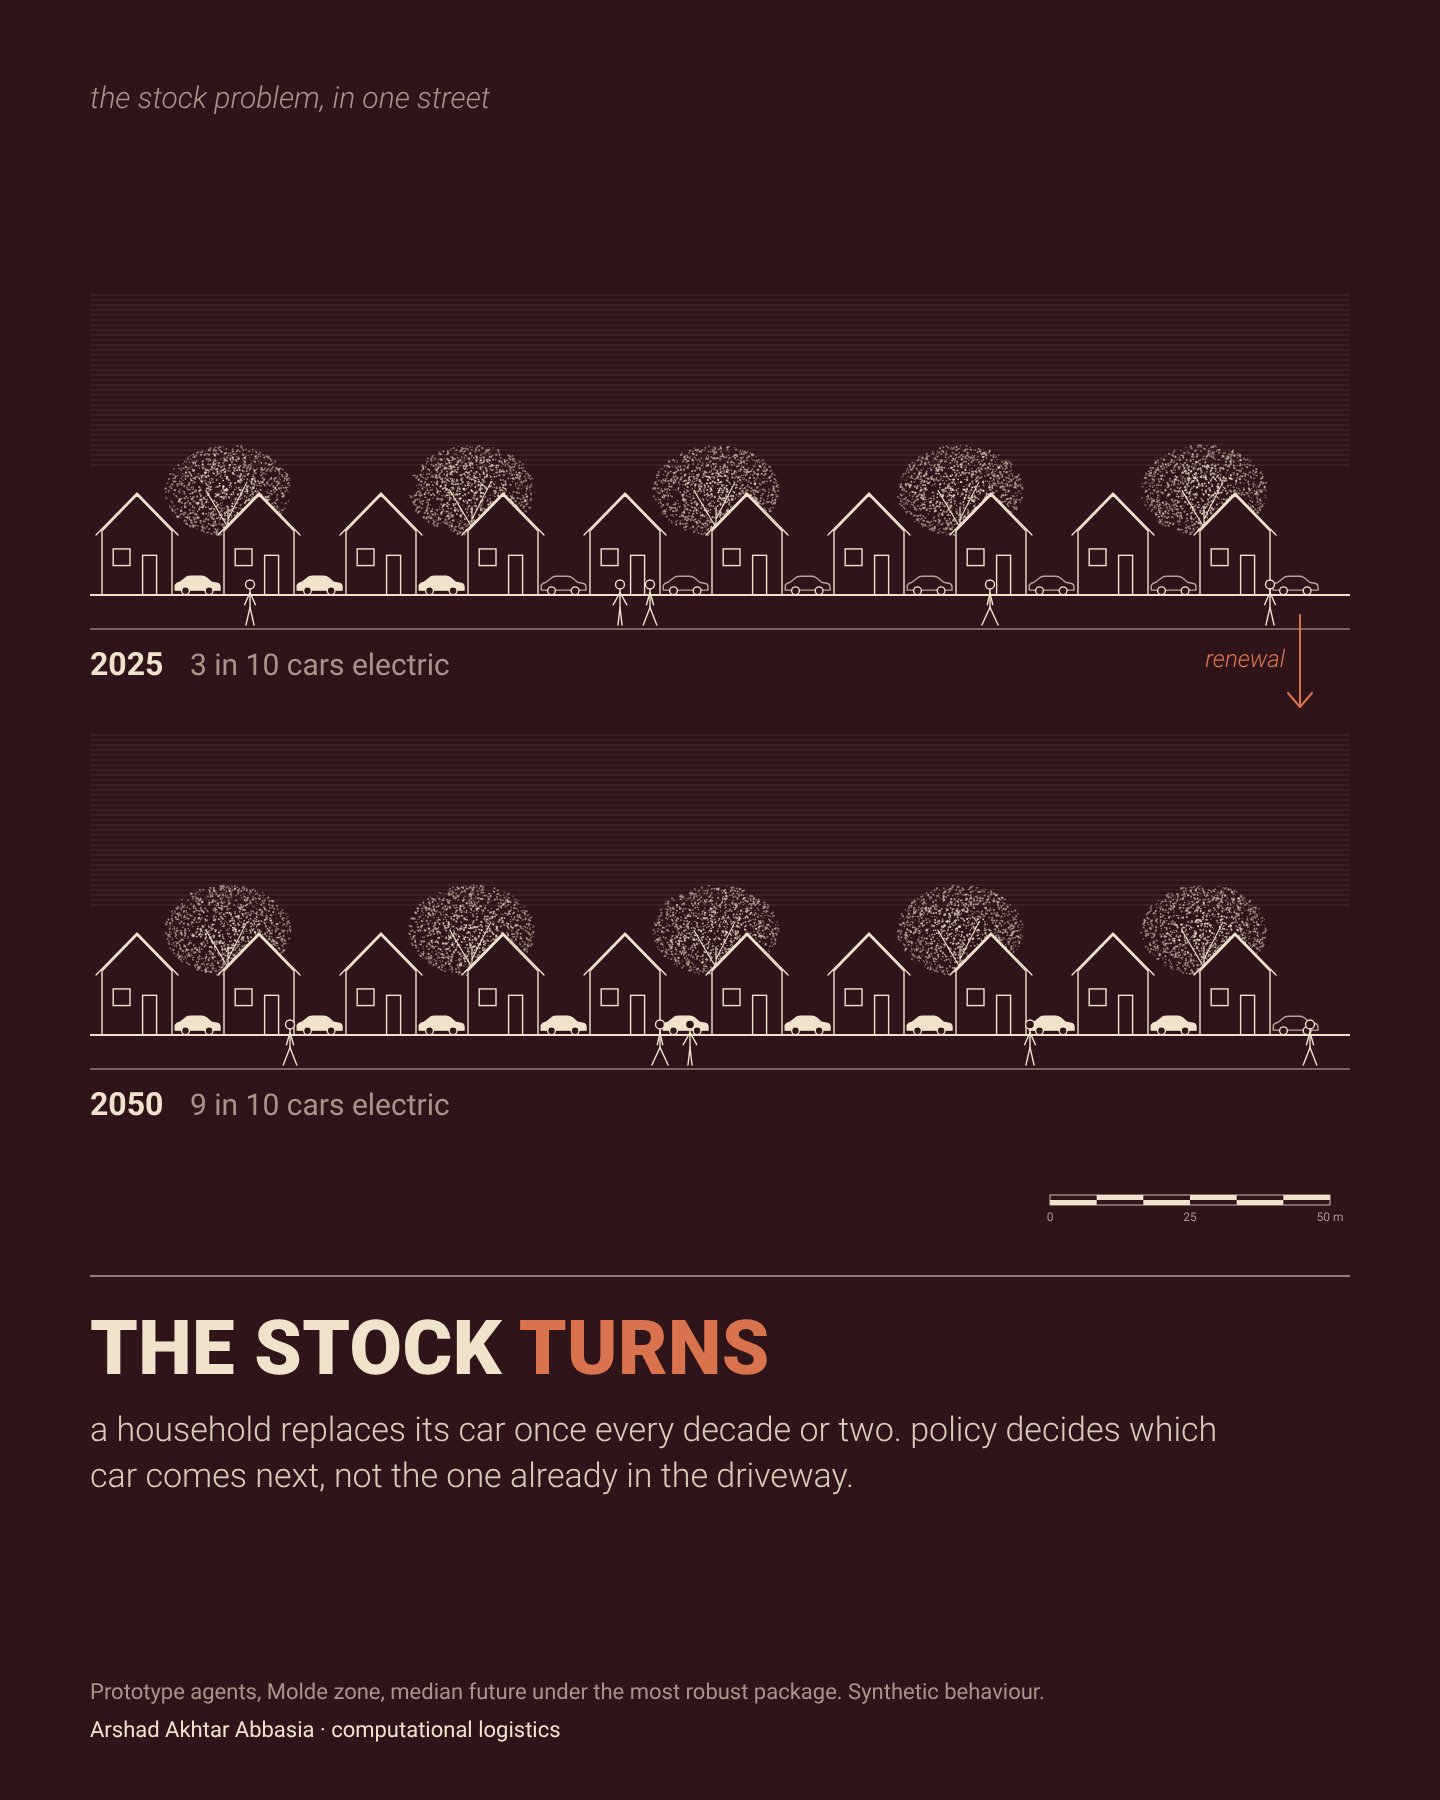
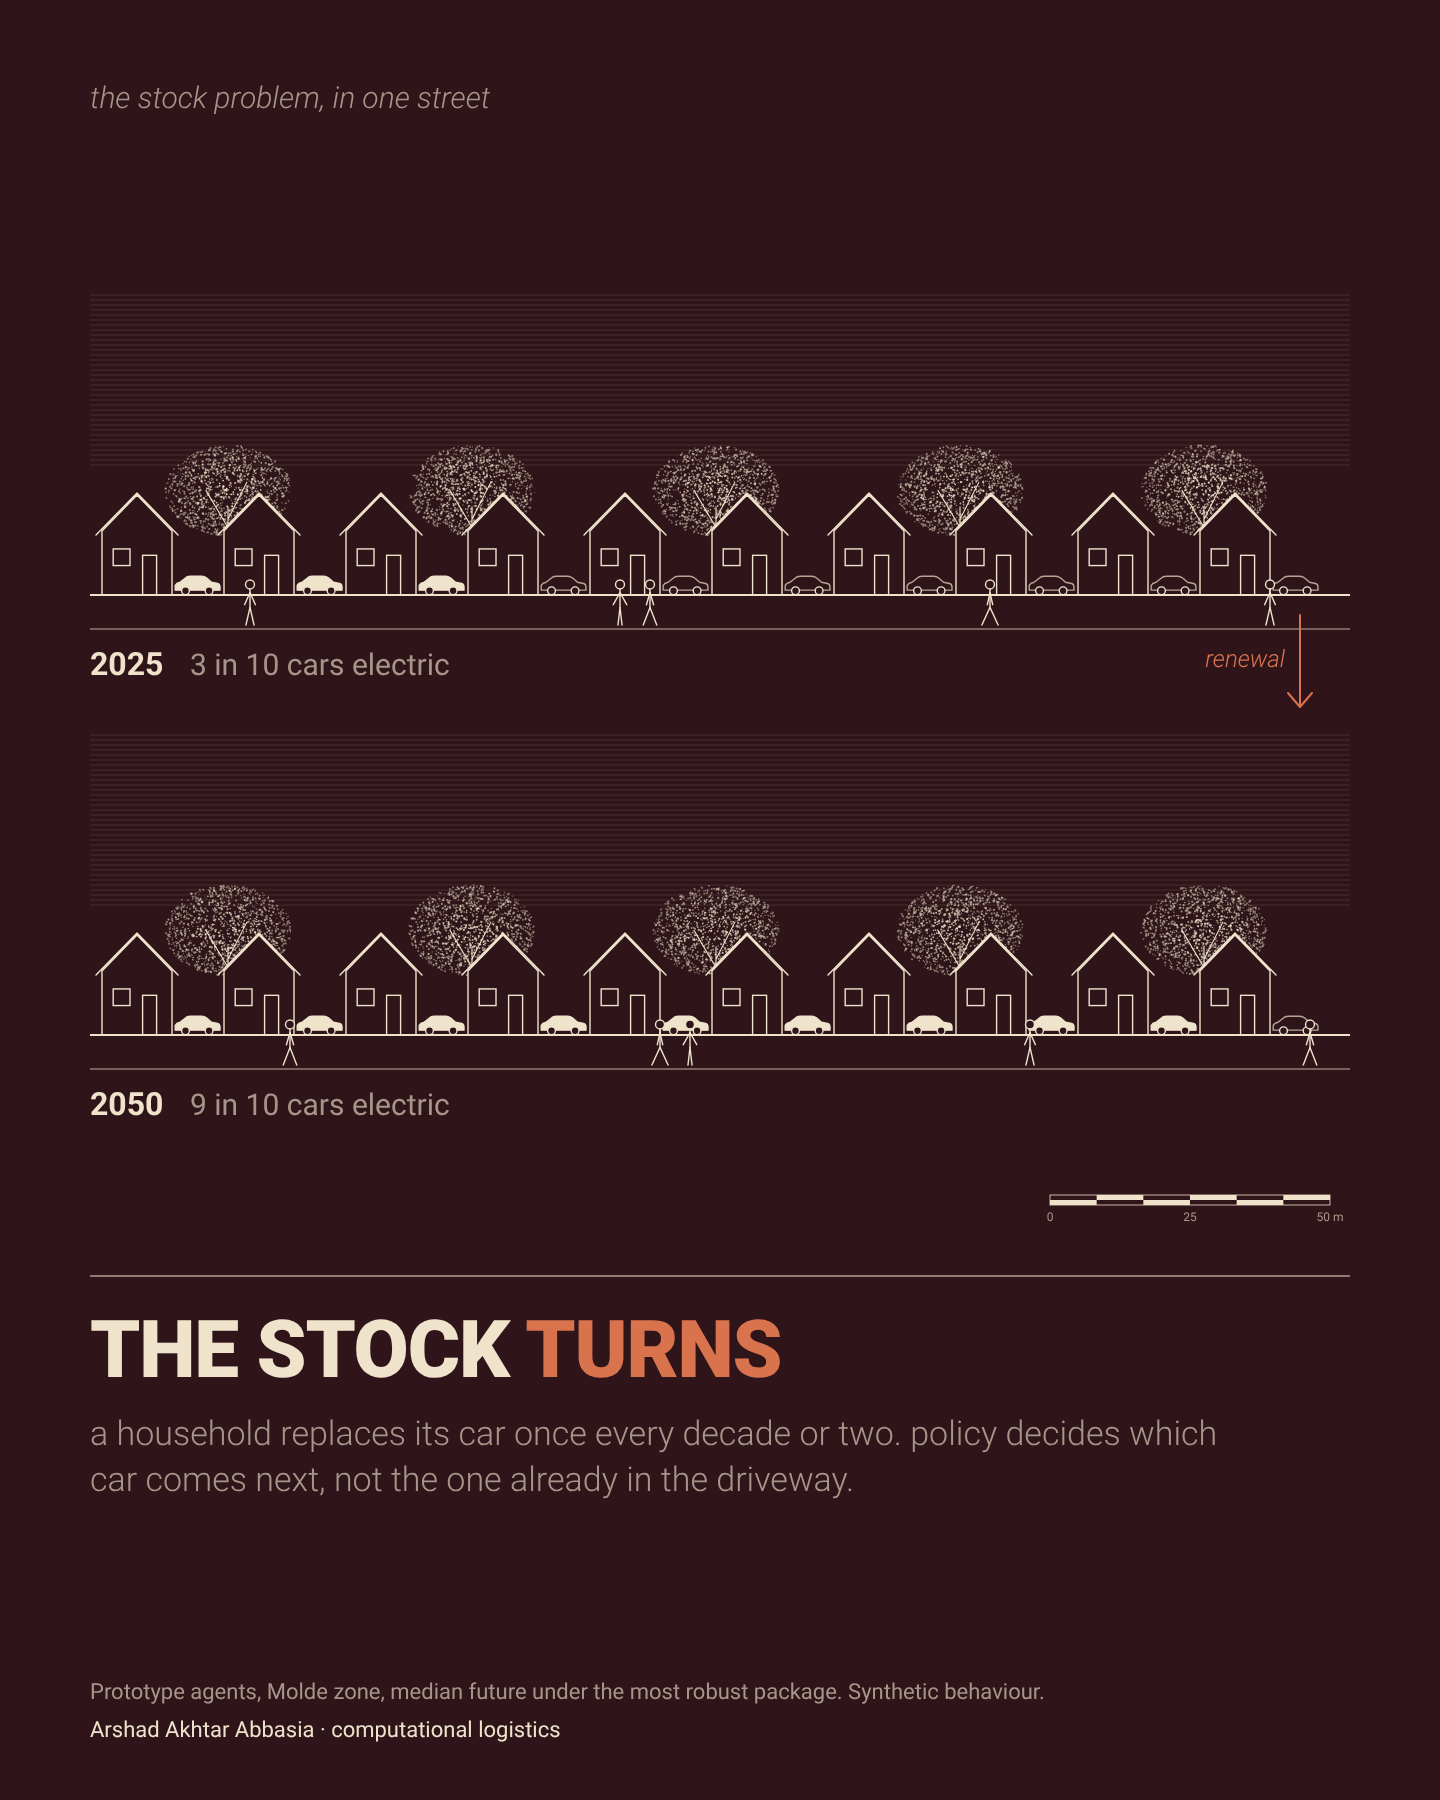
visual-narrative: charcoal and sage plate families with their typography
LINEART_THEMES adds the near-black urban-theory look (Inter 800, one
vermilion word, source line) and the sage how-to look beside oxblood;
render.py takes the theme as a third argument. Plate 05 also rendered
in charcoal. SKILL.md records the type rules and the next study.

Claude-Session: https://claude.ai/code/session_019HebN72jChvREuUZMHaMkX

Changed region(s): [[0.0625, 0.7156, 0.8438, 0.84]]

diff --git a/skills/visual-narrative/lineart/stock-turns.html b/skills/visual-narrative/lineart/stock-turns.html
@@ -1,16 +1,16 @@
 <!doctype html><meta charset="utf-8">
-<link href="https://fonts.googleapis.com/css2?family=Roboto:ital,wght@0,300;0,400;0,700;0,900;1,300&display=swap" rel="stylesheet">
+<link href="https://fonts.googleapis.com/css2?family=Roboto:ital,wght@0,300;0,400;0,700;0,900;1,300&family=Inter:wght@300;400;600;800&display=swap" rel="stylesheet">
 <style>
-body{margin:0;background:#2f1519}
-.plate{width:1440px;height:1800px;box-sizing:border-box;padding:80px 90px;background:#2f1519;color:#EFE3CC;font-family:Roboto,sans-serif;position:relative}
-.k{font-style:italic;font-weight:300;font-size:30px;color:#A8958A}
+body{margin:0;background:var(--g)}
+.plate{width:1440px;height:1800px;box-sizing:border-box;padding:80px 90px;background:var(--g);color:var(--c);font-family:var(--tf),sans-serif;position:relative}
+.k{font-style:italic;font-weight:300;font-size:30px;color:var(--d)}
 svg{display:block;margin-top:30px}
 hr{border:0;border-top:2px solid rgba(239,227,204,.5);margin:30px 0 26px}
-h1{font-weight:900;font-size:76px;margin:0;letter-spacing:.005em}
-h1 em{font-style:normal;color:#D9734E}
-p{font-size:34px;font-weight:300;line-height:1.35;margin:14px 0 0;color:#D9CCB6;max-width:1180px}
-.src{position:absolute;left:90px;bottom:96px;font-size:22px;color:#A8958A}
-.by{position:absolute;left:90px;bottom:58px;font-size:22px;color:#EFE3CC}
+h1{font-weight:var(--tw);font-size:80px;margin:0;letter-spacing:-.015em}
+h1 em{font-style:normal;color:var(--a)}
+p{font-size:34px;font-weight:300;line-height:1.35;margin:14px 0 0;color:var(--d);max-width:1180px}
+.src{position:absolute;left:90px;bottom:96px;font-size:22px;color:var(--d)}
+.by{position:absolute;left:90px;bottom:58px;font-size:22px;color:var(--c)}
 </style>
 <div class="plate">
 <div class="k">the stock problem, in one street</div>
@@ -24,7 +24,9 @@ p{font-size:34px;font-weight:300;line-height:1.35;margin:14px 0 0;color:#D9CCB6;
 <script>/*LINEART*/</script>
 <script>
 const D=/*DATA*/null;
-const s=document.getElementById("s"),L=LineArt(s,{sw:1.4});
+const T=LINEART_THEMES[window.THEME||"oxblood"];
+for(const [k,v] of Object.entries({"--g":T.ground,"--c":T.cream,"--d":T.dim,"--a":T.accent,"--tf":T.title,"--tw":T.weight}))document.documentElement.style.setProperty(k,v);
+const s=document.getElementById("s"),L=LineArt(s,Object.assign({sw:1.4},T));
 const rows=[[2025,D.ev25,150],[2050,D.ev50,590]];
 rows.forEach(([yr,share,top],ri)=>{
   const ground=top+300, g=L.el(s,"g",{}), n=10, lit=Math.round(share*n), dx=122;

diff --git a/skills/visual-narrative/lineart/lineart.js b/skills/visual-narrative/lineart/lineart.js
@@ -7,6 +7,13 @@
  *   const L = LineArt(svgElement, {cream:"#EFE3CC", accent:"#D9734E", ground:"#2f1519"});
  *   L.house(g, 100, 400, 120, 90); L.tree(g, 260, 400, 90, 7); L.person(g, 320, 400, 34, 2);
  */
+/* Three plate families, one grammar. oxblood: tool and method plates; charcoal: urban-theory plates
+ * (near-black ground, cream line, vermilion accent); sage: step-by-step "how to" plates (mono code, sage accent). */
+const LINEART_THEMES = {
+  oxblood:  { ground: "#2f1519", cream: "#EFE3CC", dim: "#A8958A", accent: "#D9734E", title: "Roboto", weight: 900 },
+  charcoal: { ground: "#151413", cream: "#E9E1D0", dim: "#8E877D", accent: "#D2412B", title: "Inter", weight: 800 },
+  sage:     { ground: "#161512", cream: "#EDE6D6", dim: "#8E877D", accent: "#8FA07E", title: "Inter", weight: 800 },
+};
 function LineArt(svg, opt) {
   const C = Object.assign({ cream: "#EFE3CC", dim: "#A8958A", accent: "#D9734E", ground: "#2f1519", sw: 1 }, opt || {});
   const NS = "http://www.w3.org/2000/svg";
@@ -95,4 +102,4 @@ function LineArt(svg, opt) {
     },
   };
 }
-if (typeof module !== "undefined") module.exports = { LineArt };
+if (typeof module !== "undefined") module.exports = { LineArt, LINEART_THEMES };

diff --git a/skills/visual-narrative/lineart/render.py b/skills/visual-narrative/lineart/render.py
@@ -3,6 +3,7 @@
 
     python skills/visual-narrative/lineart/render.py stock-turns docs/plates/05-the-stock-turns.png
     python skills/visual-narrative/lineart/render.py banner docs/brand/banner.png
+    python skills/visual-narrative/lineart/render.py stock-turns out.png charcoal   # theme: oxblood | charcoal | sage
 """
 import json
 import sys
@@ -33,13 +34,13 @@ def banner_data():
     return {"meets": st["packages_list"][0]["meets"], "roads": roads}
 
 
-def main(name, out):
+def main(name, out, theme="oxblood"):
     global data
     if name == "banner":
         data = banner_data
     html = (HERE / f"{name}.html").read_text(encoding="utf-8")
     html = html.replace("/*LINEART*/", (HERE / "lineart.js").read_text(encoding="utf-8"))
-    html = html.replace("/*DATA*/null", json.dumps(data()))
+    html = html.replace("/*DATA*/null", json.dumps(data()) + f";window.THEME={json.dumps(theme)}")
     tmp = HERE / f".{name}.built.html"
     tmp.write_text(html, encoding="utf-8")
     with sync_playwright() as p:
@@ -58,4 +59,4 @@ def main(name, out):
 
 
 if __name__ == "__main__":
-    main(*sys.argv[1:3])
+    main(*sys.argv[1:4])

diff --git a/skills/visual-narrative/SKILL.md b/skills/visual-narrative/SKILL.md
@@ -84,6 +84,21 @@ Map plates (v1) prove a place. Line-art plates explain a mechanism. Same page, d
    component, scalebar, catchment, iso). `lineart/render.py <name> <out.png>` renders a plate HTML
    to a 1440 × 1800 PNG with the prototype numbers injected.
 
+### Three families and their typography (`LINEART_THEMES`; `render.py <plate> <out> <theme>`)
+| Family | Use it for | Ground / line / accent | Title type | Page furniture |
+|---|---|---|---|---|
+| oxblood | tools and methods (engine, filter, toolbench) | #2f1519 / #EFE3CC / #D9734E | Roboto 900, caps, wide | italic kicker, rule, lowercase sentence |
+| charcoal | ideas about places and people (urban theory, the stock, the street) | #151413 / #E9E1D0 / #D2412B | Inter 800, caps, tight tracking (-0.015em), one accent word | large grey subtitle sentence, "Source: author, year, chapter" bottom left, author name bottom right, scale bar with a caps label |
+| sage | step-by-step "how to" plates (one command, one result) | #161512 / #EDE6D6 / #8FA07E | Inter 800, two lines, second line in the accent | "[ SECTION ]" bracket label top left, large plate number top right, mono terminal window, arrow to the result |
+
+Rules shared by all three: one accent; text never sits on a line without a ground-coloured halo; the
+subtitle is a plain sentence in lowercase; the source line names the data or the author and chapter.
+
+**Still to learn (next study):** isometric street scenes with facades, stoops, awnings and people at
+true scale; elevations with a time band (morning, noon, evening, night); left/right comparison pairs;
+stacked density sections. Build `facade`, `stoop`, `awning`, `bench`, `bicycle`, `lamp` primitives
+for them and draw a Molde street in that manner (charcoal family).
+
 ## Rules
 - Our palette and voice, not the reference's: `INK #10161B`, `PAPER #E8E1CF`, `ACCENT #FF5B3A`.
   Study other work for method; never trace its plates or reuse its artwork.
